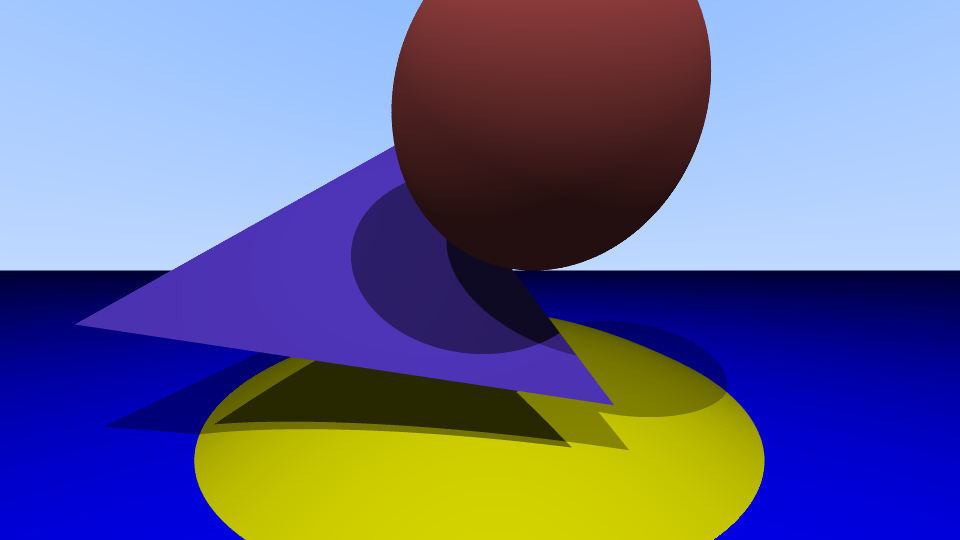
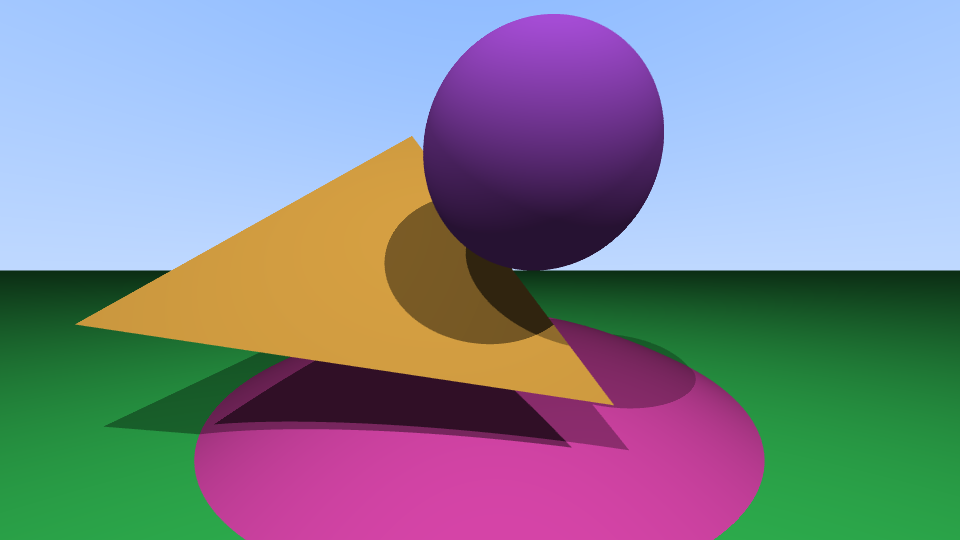
add function to easily position and move camera.

diff --git a/src/main.rs b/src/main.rs
@@ -41,54 +41,26 @@ const DIFFUSE_WEIGHT: f32 = 0.8;
 const CAMERA_TYPE: CameraProjection = CameraProjection::Perspective;
 
 fn main() {
-    // create world and populate it with objects
-    let mut world = HittableList::new();
-    world.add(Box::new(Sphere {
-        center: glm::vec3(0.2, 0.5, -1.0),
-        radius: 0.5,
-        material: Box::new(Lambertian {
-            albedo: glm::vec3(0.7, 0.3, 0.3),
-        }),
-    }));
-    world.add(Box::new(Sphere {
-        center: glm::vec3(0.0, -5.5, -3.0),
-        radius: 5.0,
-        material: Box::new(Lambertian {
-            albedo: glm::vec3(0.8, 0.8, 0.0),
-        }),
-    }));
-    world.add(Box::new(Triangle {
-        vertices: (
-            glm::vec3(0.5, -0.5, -1.0),
-            glm::vec3(-0.5, 1.0, -2.0),
-            glm::vec3(-1.5, -0.2, -1.0),
-        ),
-        material: Box::new(Lambertian {
-            albedo: glm::vec3(0.3, 0.2, 0.7),
-        }),
-    }));
-    world.add(Box::new(Plane {
-        center: glm::vec3(0.0, -1.0, 0.0),
-        normal: glm::vec3(0.0, 1.0, 0.0),
-        material: Box::new(Lambertian {
-            albedo: glm::vec3(0.0, 0.0, 1.0),
-        }),
-    }));
-
-    // create light source vector
-    let point_light1 = Light {
-        position: glm::vec3(1.0, 2.0, 1.0),
-        weight: 0.6,
-    };
-    let point_light2 = Light {
-        position: glm::vec3(-1.0, 2.0, 1.0),
-        weight: 0.5,
-    };
-    let lights = vec![point_light1, point_light2];
+    // configure camera position
+    let mut camera_origin: Vec3 = glm::vec3(0.0, 0.0, 0.0);
+    let mut camera_lookat: Vec3 = glm::vec3(0.0, 0.0, -1.0);
+    let camera_up: Vec3 = glm::vec3(0.0, 1.0, 1.0);
 
     // create a camera
-    let ortho = &OrthographicCamera::new_default_orthographic();
-    let perspective = &PerspectiveCamera::new_default_perspective();
+    let ortho = &OrthographicCamera::new(
+        camera_origin,
+        camera_lookat,
+        camera_up,
+        90.0,
+        IMAGE_WIDTH as f32 / IMAGE_HEIGHT as f32,
+    );
+    let mut perspective = &PerspectiveCamera::new(
+        camera_origin,
+        camera_lookat,
+        camera_up,
+        90.0,
+        IMAGE_WIDTH as f32 / IMAGE_HEIGHT as f32,
+    );
     let camera: &dyn Camera = match CAMERA_TYPE {
         CameraProjection::Orthographic => {
             drop(perspective);
@@ -99,6 +71,57 @@ fn main() {
             perspective
         }
     };
+
+    // configure object colors
+    let ground_plane_color = color(58, 222, 99);
+    let little_ball_color = color(194, 90, 250);
+    let ground_ball_color = color(242, 78, 190);
+    let triangle_color = color(242, 181, 75);
+
+    // create world and populate it with objects
+    let mut world = HittableList::new();
+    world.add(Box::new(Sphere {
+        center: glm::vec3(0.2, 0.4, -1.0),
+        radius: 0.4,
+        material: Box::new(Lambertian {
+            albedo: little_ball_color,
+        }),
+    }));
+    world.add(Box::new(Sphere {
+        center: glm::vec3(0.0, -5.5, -3.0),
+        radius: 5.0,
+        material: Box::new(Lambertian {
+            albedo: ground_ball_color,
+        }),
+    }));
+    world.add(Box::new(Triangle {
+        vertices: (
+            glm::vec3(0.5, -0.5, -1.0),
+            glm::vec3(-0.5, 1.0, -2.0),
+            glm::vec3(-1.5, -0.2, -1.0),
+        ),
+        material: Box::new(Lambertian {
+            albedo: triangle_color,
+        }),
+    }));
+    world.add(Box::new(Plane {
+        center: glm::vec3(0.0, -1.0, 0.0),
+        normal: glm::vec3(0.0, 1.0, 0.0),
+        material: Box::new(Lambertian {
+            albedo: ground_plane_color,
+        }),
+    }));
+
+    // create light source vector
+    let point_light1 = Light {
+        position: glm::vec3(1.0, 2.0, 1.0),
+        weight: 0.5,
+    };
+    let point_light2 = Light {
+        position: glm::vec3(-1.0, 2.0, 1.0),
+        weight: 0.4,
+    };
+    let lights = vec![point_light1, point_light2];
 
     let vec3_to_rgb = |vec: Vec3| {
         let scaled = vec / (SAMPLES_LEVEL * SAMPLES_LEVEL) as f32;
@@ -140,7 +163,11 @@ fn main() {
         *pixel = vec3_to_rgb(pixel_color);
     }
 
-    img.save("out.png").unwrap();
+    img.save(format!("out.png")).unwrap();
+}
+
+fn color(r: u8, g: u8, b: u8) -> Vec3 {
+    glm::vec3(r as f32 / 255.0, g as f32 / 255.0, b as f32 / 255.0)
 }
 
 /// Shuffle the samples. Use multi-jittered

diff --git a/src/camera/orthographic_camera.rs b/src/camera/orthographic_camera.rs
@@ -11,24 +11,54 @@ pub struct OrthographicCamera {
 }
 
 impl OrthographicCamera {
-    pub fn new_default_orthographic() -> OrthographicCamera {
-        let aspect_ratio = 16.0 / 9.0;
-        let viewport_height = 2.0;
+    fn calculate_camera_parameters(
+        position: Vec3,
+        lookat: Vec3,
+        up_direction: Vec3,
+        vertical_fov: f32,
+        aspect_ratio: f32,
+    ) -> (Vec3, Vec3, Vec3, Vec3) {
+        let h = (vertical_fov.to_radians() / 2.0).tan();
+        let viewport_height = 2.0 * h;
         let viewport_width = aspect_ratio * viewport_height;
-        let focal_length = -2.0;
-        let origin = glm::vec3(0.0, 0.0, 0.0);
-        let horizontal = glm::vec3(viewport_width, 0.0, 0.0);
-        let vertical = glm::vec3(0.0, viewport_height, 0.0);
-        let look_at = glm::vec3(0.0, 0.0, -1.0);
-        let lower_left_corner =
-            origin - horizontal / 2.0 - vertical / 2.0 - glm::vec3(0.0, 0.0, focal_length);
+
+        let into_camera = glm::normalize(&(position - lookat));
+        let horizontal_direction = glm::normalize(&glm::cross(&up_direction, &into_camera));
+        let vertical_direction = glm::cross(&into_camera, &horizontal_direction);
+
+        (
+            position,
+            viewport_width * horizontal_direction,
+            viewport_height * vertical_direction,
+            position
+                - viewport_width * horizontal_direction / 2.0
+                - viewport_height * vertical_direction / 2.0
+                - into_camera,
+        )
+    }
+
+    pub fn new(
+        position: Vec3,
+        lookat: Vec3,
+        up_direction: Vec3,
+        vertical_fov: f32,
+        aspect_ratio: f32,
+    ) -> OrthographicCamera {
+        let (origin, horizontal, vertical, lower_left_corner) =
+            OrthographicCamera::calculate_camera_parameters(
+                position,
+                lookat,
+                up_direction,
+                vertical_fov,
+                aspect_ratio,
+            );
 
         OrthographicCamera {
             origin: origin,
             horizontal: horizontal,
             vertical: vertical,
             lower_left_corner: lower_left_corner,
-            look_at: look_at,
+            look_at: lookat,
         }
     }
 }
@@ -40,5 +70,27 @@ impl Camera for OrthographicCamera {
             direction: self.look_at,
             attenuation: glm::vec3(0.0, 0.0, 0.0),
         }
+    }
+
+    fn move_camera(
+        &mut self,
+        position: Vec3,
+        lookat: Vec3,
+        up_direction: Vec3,
+        vertical_fov: f32,
+        aspect_ratio: f32,
+    ) {
+        let (origin, horizontal, vertical, lower_left_corner) =
+            OrthographicCamera::calculate_camera_parameters(
+                position,
+                lookat,
+                up_direction,
+                vertical_fov,
+                aspect_ratio,
+            );
+        self.origin = origin;
+        self.horizontal = horizontal;
+        self.vertical = vertical;
+        self.lower_left_corner = lower_left_corner;
     }
 }

diff --git a/src/camera/perspective_camera.rs b/src/camera/perspective_camera.rs
@@ -10,16 +10,47 @@ pub struct PerspectiveCamera {
 }
 
 impl PerspectiveCamera {
-    pub fn new_default_perspective() -> PerspectiveCamera {
-        let aspect_ratio = 16.0 / 9.0;
-        let viewport_height = 2.0;
+    fn calculate_camera_parameters(
+        position: Vec3,
+        lookat: Vec3,
+        up_direction: Vec3,
+        vertical_fov: f32,
+        aspect_ratio: f32,
+    ) -> (Vec3, Vec3, Vec3, Vec3) {
+        let h = (vertical_fov.to_radians() / 2.0).tan();
+        let viewport_height = 2.0 * h;
         let viewport_width = aspect_ratio * viewport_height;
-        let focal_length = 1.0;
-        let origin = glm::vec3(0.0, 0.0, 0.0);
-        let horizontal = glm::vec3(viewport_width, 0.0, 0.0);
-        let vertical = glm::vec3(0.0, viewport_height, 0.0);
-        let lower_left_corner =
-            origin - horizontal / 2.0 - vertical / 2.0 - glm::vec3(0.0, 0.0, focal_length);
+
+        let into_camera = glm::normalize(&(position - lookat));
+        let horizontal_direction = glm::normalize(&glm::cross(&up_direction, &into_camera));
+        let vertical_direction = glm::cross(&into_camera, &horizontal_direction);
+
+        (
+            position,
+            viewport_width * horizontal_direction,
+            viewport_height * vertical_direction,
+            position
+                - viewport_width * horizontal_direction / 2.0
+                - viewport_height * vertical_direction / 2.0
+                - into_camera,
+        )
+    }
+
+    pub fn new(
+        position: Vec3,
+        lookat: Vec3,
+        up_direction: Vec3,
+        vertical_fov: f32,
+        aspect_ratio: f32,
+    ) -> PerspectiveCamera {
+        let (origin, horizontal, vertical, lower_left_corner) =
+            PerspectiveCamera::calculate_camera_parameters(
+                position,
+                lookat,
+                up_direction,
+                vertical_fov,
+                aspect_ratio,
+            );
 
         PerspectiveCamera {
             origin: origin,
@@ -38,5 +69,27 @@ impl Camera for PerspectiveCamera {
                 - self.origin,
             attenuation: glm::vec3(0.0, 0.0, 0.0),
         }
+    }
+
+    fn move_camera(
+        &mut self,
+        position: Vec3,
+        lookat: Vec3,
+        up_direction: Vec3,
+        vertical_fov: f32,
+        aspect_ratio: f32,
+    ) {
+        let (origin, horizontal, vertical, lower_left_corner) =
+            PerspectiveCamera::calculate_camera_parameters(
+                position,
+                lookat,
+                up_direction,
+                vertical_fov,
+                aspect_ratio,
+            );
+        self.origin = origin;
+        self.horizontal = horizontal;
+        self.vertical = vertical;
+        self.lower_left_corner = lower_left_corner;
     }
 }

diff --git a/src/camera.rs b/src/camera.rs
@@ -2,7 +2,16 @@ pub mod orthographic_camera;
 pub mod perspective_camera;
 
 use crate::ray::Ray;
+use glm::Vec3;
 
 pub trait Camera {
     fn get_ray(&self, u: f32, v: f32) -> Ray;
+    fn move_camera(
+        &mut self,
+        position: Vec3,
+        lookat: Vec3,
+        up_direction: Vec3,
+        vertical_fov: f32,
+        aspect_ratio: f32,
+    );
 }
